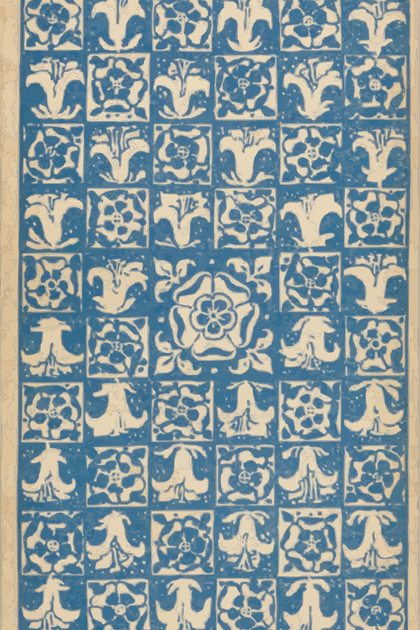
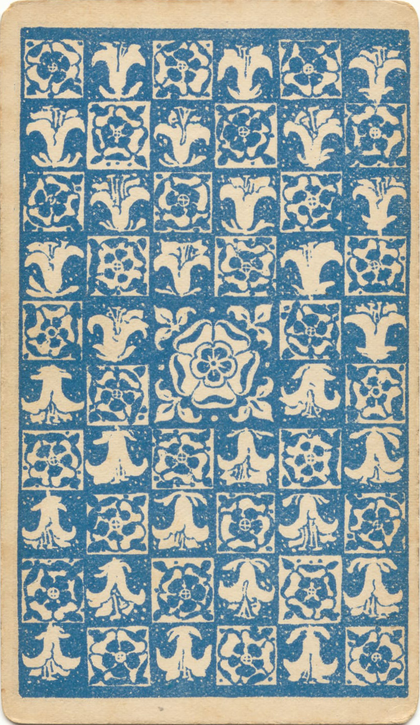
Rebuild card back from the 1909 scan

diff --git a/ATTRIBUTION.md b/ATTRIBUTION.md
@@ -14,13 +14,13 @@ are included.
 
 ## Card back
 
-`public/card-back.png` is a normalized copy of [Waite–Smith Tarot Roses and
-Lilies
-cropped.jpg](https://commons.wikimedia.org/wiki/File:Waite%E2%80%93Smith_Tarot_Roses_and_Lilies_cropped.jpg),
-a rotated and cropped scan of an original 1909 card back from Saskia Jansen's
-collection. Wikimedia Commons records the artist as unknown, possibly Pamela
-Colman Smith, and marks the image public domain (`PD-US-expired` and
-`PD-UK-unknown`).
+`public/card-back.png` is
+[Waite–Smith Tarot Roses and Lilies cropped.jpg](https://commons.wikimedia.org/wiki/File:Waite%E2%80%93Smith_Tarot_Roses_and_Lilies_cropped.jpg),
+resized from 825 × 1425 to 420 × 725 pixels with no other edits. That file is
+a rotated and cropped version of a scan of an original 1909 card back from
+Saskia Jansen's collection. Wikimedia Commons records the artist as unknown,
+possibly Pamela Colman Smith, and marks the image public domain
+(`PD-US-expired` and `PD-UK-unknown`).
 
 The modern vector tracing of the same design on Commons is not used.
 
